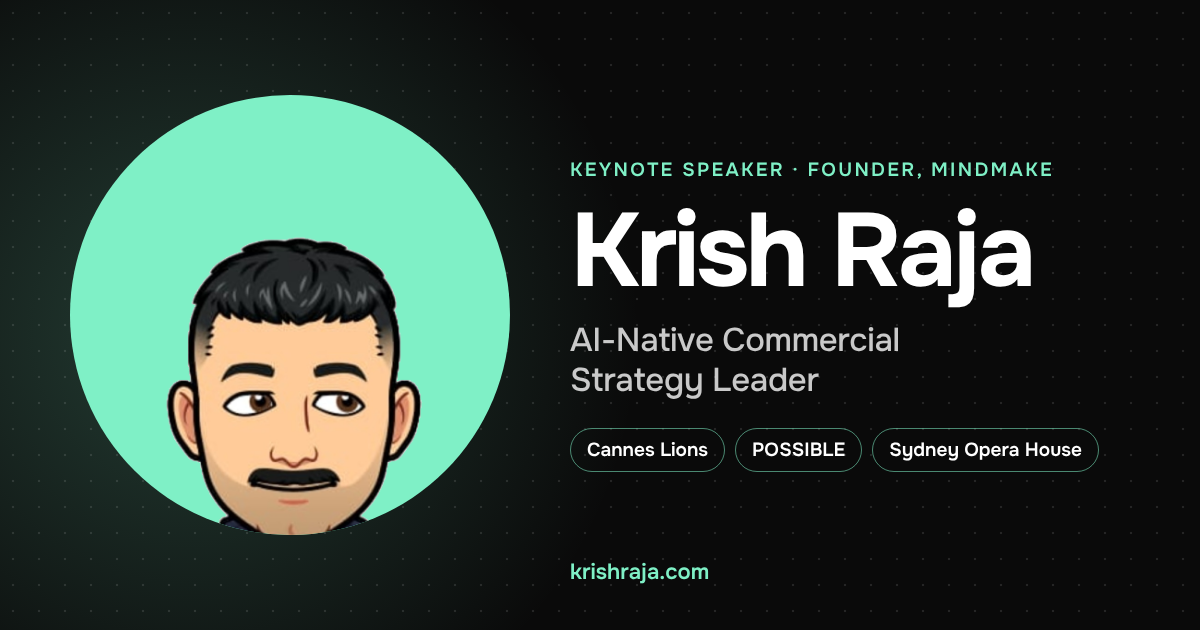
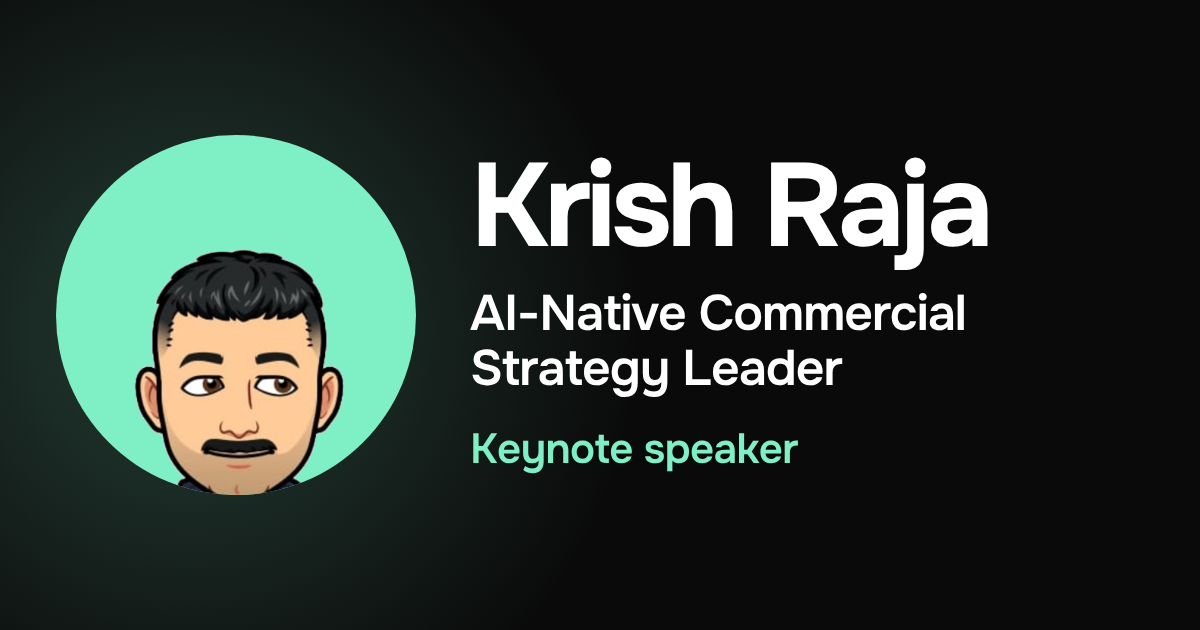
Share card rebuilt for thumbnail size
Krish, 2026-11-13: in LinkedIn's preview the card showed but nothing on
it could be read. LinkedIn shows it about 550px wide and compresses it,
so the 19px tag, the room pills and the URL turned to mush.

Now three lines, all large: the name, the spine, "Keynote speaker" in
mint, beside the bitmoji. Checked at 552px with JPEG compression. The
image URL moves to ?v=20261113b so LinkedIn fetches it fresh.

Claude-Session: https://claude.ai/code/session_013nodCbVwURRmq1XxNSdrMj

diff --git a/index.html b/index.html
@@ -32,8 +32,8 @@
     <meta property="og:url" content="https://www.krishraja.com/" />
     <meta property="og:title" content="Krish Raja: AI-Native Commercial Strategy Leader and Speaker" />
     <meta property="og:description" content="Krish Raja is an AI-native commercial strategy leader, keynote speaker and founder of Mindmake, with sixteen years growing content, media and IP businesses." />
-    <meta property="og:image" content="https://www.krishraja.com/og-image.png?v=20261113" />
-    <meta property="og:image:secure_url" content="https://www.krishraja.com/og-image.png?v=20261113" />
+    <meta property="og:image" content="https://www.krishraja.com/og-image.png?v=20261113b" />
+    <meta property="og:image:secure_url" content="https://www.krishraja.com/og-image.png?v=20261113b" />
     <meta property="og:image:type" content="image/png" />
     <meta property="og:image:width" content="1200" />
     <meta property="og:image:height" content="630" />
@@ -49,7 +49,7 @@
     <meta name="twitter:url" content="https://www.krishraja.com/" />
     <meta name="twitter:title" content="Krish Raja: AI-Native Commercial Strategy Leader and Speaker" />
     <meta name="twitter:description" content="Krish Raja is an AI-native commercial strategy leader, keynote speaker and founder of Mindmake, with sixteen years growing content, media and IP businesses." />
-    <meta name="twitter:image" content="https://www.krishraja.com/og-image.png?v=20261113" />
+    <meta name="twitter:image" content="https://www.krishraja.com/og-image.png?v=20261113b" />
     <meta name="twitter:image:alt" content="Krish Raja, AI-native commercial strategy leader and keynote speaker, as his bitmoji" />
     <meta name="twitter:site" content="@therealkrisho" />
     <meta name="twitter:creator" content="@therealkrisho" />
@@ -97,7 +97,7 @@
           },
           "primaryImageOfPage": {
             "@type": "ImageObject",
-            "url": "https://www.krishraja.com/og-image.png?v=20261113",
+            "url": "https://www.krishraja.com/og-image.png?v=20261113b",
             "width": 1200,
             "height": 630
           }

diff --git a/src/content/site.ts b/src/content/site.ts
@@ -65,7 +65,7 @@ export const site: SiteContent = {
   // Rendered by `npm run brand` from the bitmoji. The ?v= changes whenever the
   // card does, because LinkedIn, Slack and WhatsApp cache a preview image by URL
   // and would otherwise keep showing the old one for weeks.
-  ogImage: 'https://www.krishraja.com/og-image.png?v=20261113',
+  ogImage: 'https://www.krishraja.com/og-image.png?v=20261113b',
   ogImageAlt: 'Krish Raja, AI-native commercial strategy leader and keynote speaker, as his bitmoji',
   // A real photograph for the structured data. Search engines match a person to
   // a face, not to a cartoon, so the bitmoji stays on the cards and the tab.
